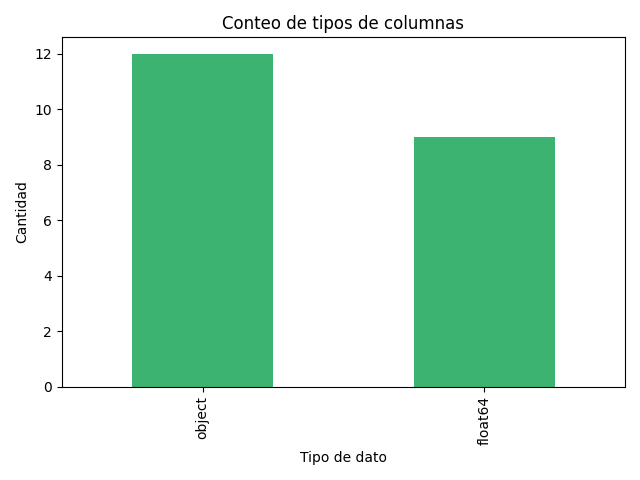
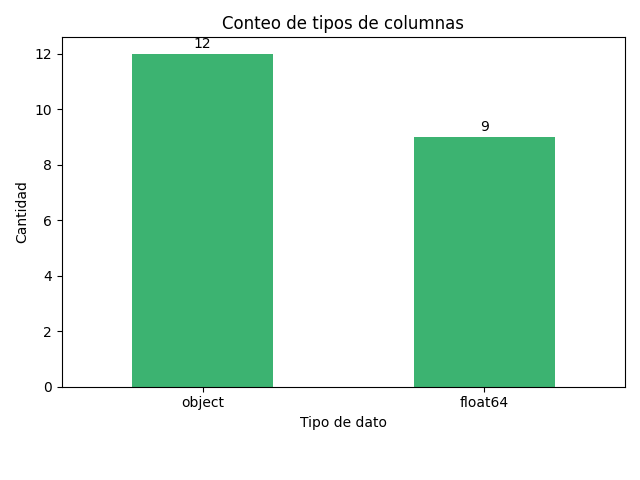
Generación de gráficas por cada columna organizadas por su tipo de dato

diff --git a/templates/index.html b/templates/index.html
@@ -2,25 +2,113 @@
 
 <!DOCTYPE html>
 <html lang="es">
-<head>
-    <meta charset="UTF-8">
-    <title>Dashboard de BI</title>
-    <style>
-     body { font-family: Arial; padding: 20px; }
-     .table { border-collapse: collapse; width: 100%; }
-     .table td, .table th { border: 1px solid #ddd; padding: 8px; }
-     .table th { background-color: #f2f2f2; }
-    </style>
-</head>
-<body>
-    <h1>Conteo de tipos de datos </h1>
-    <img src="{{ url_for('static', filename='images/tipos_datos.png') }}" alt="Gráfico tipos de datos">
 
-    <hr>
+    <head>
+        <meta charset="UTF-8">
+        <title>Dashboard de BI</title>
+        <style>
+            body {
+                font-family: Arial;
+                padding: 20px;
+            }
 
-    <h1>Dashboard - Valores Nulos</h1>
-    <img src="{{ url_for('static', filename='images/valores_nulos.png') }}" alt="Gráfico">
+            .grid-container {
+                display: grid;
+                grid-template-columns: repeat(3, 1fr);
+                /* 3 columnas */
+                gap: 20px;
+            }
 
-</body>
+            .grid-container img {
+                width: 100%;
+                height: auto;
+                border-radius: 8px;
+                box-shadow: 0px 4px 10px rgba(0, 0, 0, 0.1);
+            }
+        </style>
+    </head>
+
+    <body>
+        <h1>Conteo de tipos de datos </h1>
+        <img src="{{ url_for('static', filename='images/tipos_datos.png') }}" alt="Gráfico tipos de datos">
+
+        <hr>
+
+        <h1>Dashboard - Valores Nulos</h1>
+        <img src="{{ url_for('static', filename='images/valores_nulos.png') }}" alt="Gráfico">
+
+        <hr>
+
+        <!-- Gráficos de tipo numérico -->
+        <h2>Gráficos Numéricos</h2>
+        <div class="grid-container">
+            {% for filename in numericas %}
+            <div>
+                <h2>{{ filename.split('.')[0] }}</h2>
+                <img src="{{ url_for('static', filename='images/graficos_por_columna/' + filename) }}"
+                     alt="{{ filename }}">
+            </div>
+            {% endfor %}
+
+        </div>
+
+        <hr>
+
+        <!-- Gráficos categóricos -->
+        <h2>Gráficos Categóricos (Pocas categorías)</h2>
+        <div class="grid-container">
+            {% for filename in categoricas %}
+            <div>
+                <h2>{{ filename.split('.')[0] }}</h2>
+                <img src="{{ url_for('static', filename='images/graficos_por_columna/' + filename) }}"
+                     alt="{{ filename }}">
+            </div>
+            {% endfor %}
+        </div>
+
+        <hr>
+
+        <!-- Gráficos categóricos con muchas categorías -->
+        <h2>Gráficos Categóricos (Muchas categorías)</h2>
+        <div class="grid-container">
+            {% for filename in categoricas_muchas %}
+            <div>
+                <h2>{{ filename.split('.')[0] }}</h2>
+                <img src="{{ url_for('static', filename='images/graficos_por_columna/' + filename) }}"
+                     alt="{{ filename }}">
+            </div>
+            {% endfor %}
+        </div>
+
+        <hr>
+
+        <!-- Gráficos booleanos -->
+        <h2>Gráficos Booleanos</h2>
+        <div class="grid-container">
+            {% for filename in booleanos %}
+            <div>
+                <h2>{{ filename.split('.')[0] }}</h2>
+                <img src="{{ url_for('static', filename='images/graficos_por_columna/' + filename) }}"
+                     alt="{{ filename }}">
+            </div>
+            {% endfor %}
+        </div>
+
+        <hr>
+
+        <!-- Gráficos de fechas -->
+        <h2>Gráficos de Fechas</h2>
+        <div class="grid-container">
+            {% for filename in fechas %}
+            <div>
+                <h2>{{ filename.split('.')[0] }}</h2>
+                <img src="{{ url_for('static', filename='images/graficos_por_columna/' + filename) }}"
+                     alt="{{ filename }}">
+            </div>
+            {% endfor %}
+        </div>
+
+
+    </body>
+
 </html>
-

diff --git a/backend/plots/graficos_tipos_datos.py b/backend/plots/graficos_tipos_datos.py
@@ -1,6 +1,11 @@
+import matplotlib
+matplotlib.use('Agg') 
 import matplotlib.pyplot as plt
 import pandas as pd
+import seaborn as sns 
+import numpy as np 
 from ..conexionBD import get_engine
+import os
 
 def grafico_tipos_datos(output_path="static/images/tipos_datos.png"):
     engine = get_engine()
@@ -13,5 +18,98 @@ def grafico_tipos_datos(output_path="static/images/tipos_datos.png"):
     plt.xlabel("Tipo de dato")
     plt.ylabel("Cantidad")
     plt.tight_layout()
+
+    plt.xticks(rotation=0)  #texto en horizontal
+
+    for i, valor in enumerate(tipo_datos.values): # Agregar etiquetas con el conteo sobre cada barra
+        plt.text(i, valor + 0.1, str(valor), ha='center', va='bottom', fontsize=10)
+
     plt.savefig(output_path)
     plt.close()
+
+
+
+def grafico_por_columna(output_dir="static/images/graficos_por_columna/"):
+    engine = get_engine()
+    df = pd.read_sql("SELECT * FROM uber_booking", engine)
+
+    
+    for columna in df.columns:
+        serie = df[columna]
+        tipo_dato = serie.dtypes
+
+        output_path = os.path.join(output_dir, f"{columna}_{tipo_dato}.png")
+
+        # 1. Si es numérico
+        if np.issubdtype(tipo_dato, np.number):
+            output_path = os.path.join(output_dir, f"{columna}_Boxplot.png")
+            plt.figure(figsize=(8, 6))
+            sns.boxplot(x=serie, color='lightblue')
+            plt.title(f"Boxplot - {columna}")
+            plt.tight_layout()
+            plt.savefig(output_path)
+            plt.close()
+
+        # 2. Si es categórico con pocas categorías
+        elif tipo_dato == 'object' and serie.nunique() <= 7:
+            output_path = os.path.join(output_dir, f"{columna}_Frecuencia.png")
+            plt.figure(figsize=(8, 6))
+            serie.value_counts().plot(kind='bar', color='lightcoral')
+            plt.title(f"Frecuencia de valores - {columna}")
+            plt.xlabel(columna)
+            plt.ylabel("Frecuencia")
+            plt.tight_layout()
+            plt.savefig(output_path)
+            plt.close()
+
+        # 3. Si es categórico con muchas categorías
+        elif tipo_dato == 'object' and serie.nunique() > 7:
+            output_path = os.path.join(output_dir, f"{columna}_TopN.png")
+            # Tomamos las N principales categorías y agrupamos el resto como "Otros"
+            top_n = serie.value_counts().nlargest(10)
+            otros = serie.value_counts().iloc[10:].sum()
+            top_n["Otros"] = otros
+
+            plt.figure(figsize=(8, 6))
+            top_n.plot(kind='bar', color='lightgreen')
+            plt.title(f"Top N - {columna}")
+            plt.xlabel(columna)
+            plt.ylabel("Frecuencia")
+            plt.tight_layout()
+            plt.savefig(output_path)
+            plt.close()
+
+        # 4. Si es booleano
+        elif tipo_dato == 'bool':
+            output_path = os.path.join(output_dir, f"{columna}_TrueFalse.png")
+            plt.figure(figsize=(8, 6))
+            serie.value_counts().plot(kind='bar', color=['blue', 'orange'])
+            plt.title(f"Conteo de True/False - {columna}")
+            plt.xlabel(columna)
+            plt.ylabel("Frecuencia")
+            plt.tight_layout()
+            plt.savefig(output_path)
+            plt.close()
+
+        # 5. Si es fecha (datetime)
+        elif np.issubdtype(tipo_dato, np.datetime64):
+            output_path = os.path.join(output_dir, f"{columna}_Fecha.png")
+            # Resample por día, mes y año
+            plt.figure(figsize=(8, 6))
+            serie_resampled_day = serie.resample('D').count()  # Conteo diario
+            serie_resampled_month = serie.resample('M').count()  # Conteo mensual
+            serie_resampled_year = serie.resample('Y').count()  # Conteo anual
+
+            plt.subplot(311)
+            serie_resampled_day.plot(color='skyblue')
+            plt.title(f"{columna} - Diario")
+            plt.subplot(312)
+            serie_resampled_month.plot(color='lightgreen')
+            plt.title(f"{columna} - Mensual")
+            plt.subplot(313)
+            serie_resampled_year.plot(color='salmon')
+            plt.title(f"{columna} - Anual")
+            
+            plt.tight_layout()
+            plt.savefig(output_path)
+            plt.close()

diff --git a/backend/routers/api.py b/backend/routers/api.py
@@ -1,16 +1,33 @@
 from flask import Blueprint, render_template
-from ..plots.graficos_tipos_datos import grafico_tipos_datos
+from ..plots.graficos_tipos_datos import grafico_tipos_datos, grafico_por_columna
 from ..plots.graficos_nulos import grafico_valores_nulos
+import os 
 
 api = Blueprint("api", __name__)
 
 @api.route("/")
-def nulos_view():
+def view():
     grafico_valores_nulos()
-    return render_template("index.html")
-
-@api.route("/")
-def tipos_datos_view():
     grafico_tipos_datos()
-    return render_template("index.html")
+    grafico_por_columna()
+
+    # Obtener los archivos generados
+    static_files = [f for f in os.listdir('static/images/graficos_por_columna/') if f.endswith('.png')]
+
+    # Categorizar los gráficos
+    numericas = [f for f in static_files if 'Boxplot' in f]
+    categoricas = [f for f in static_files if 'Frecuencia' in f]
+    categoricas_muchas = [f for f in static_files if 'Top N' in f]
+    booleanos = [f for f in static_files if 'True/False' in f]
+    fechas = [f for f in static_files if 'Diario' in f or 'Mensual' in f or 'Anual' in f]
+
+
+    return render_template("index.html", 
+                           numericas = numericas,
+                           categoricas = categoricas, 
+                           categoricas_muchas = categoricas_muchas,
+                           booleanos = booleanos, 
+                           fechas = fechas)
+
+
 
